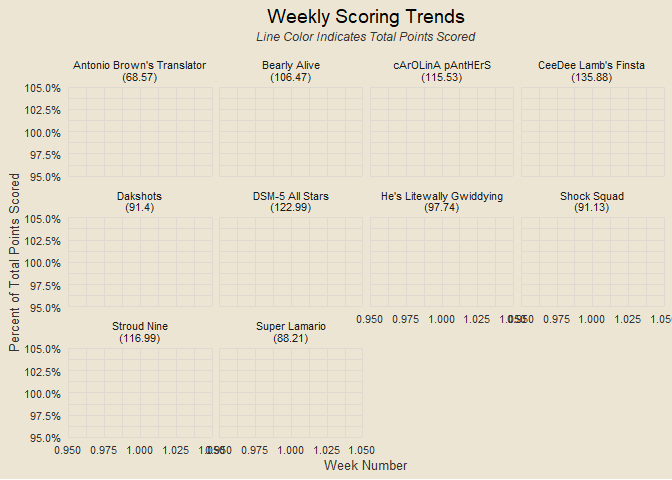
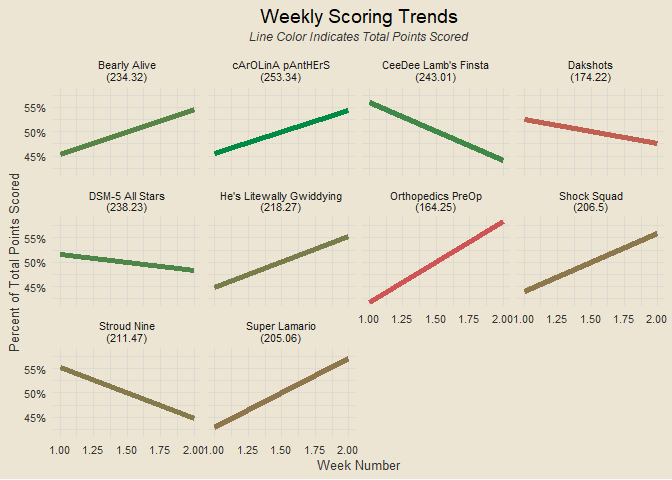
new commit

diff --git a/README.md b/README.md
@@ -84,7 +84,7 @@ Travis Scott Burger Fantasy League 2025
 
 ### Weekly Scoring Trends
 
-*Coming next week …*
+![](README_files/figure-gfm/unnamed-chunk-10-1.png)<!-- -->
 
 ------------------------------------------------------------------------
 
